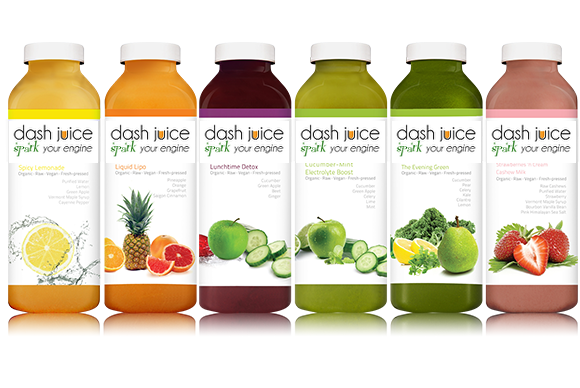
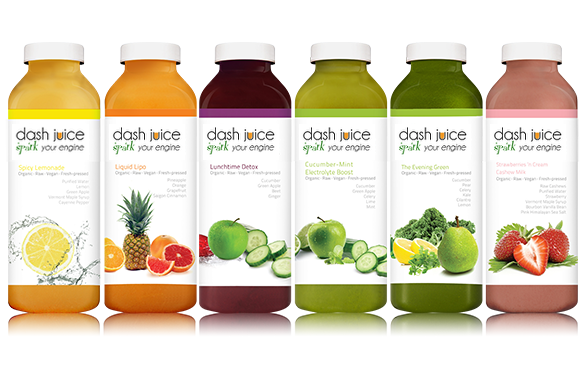
Updated images while refactoring CSS

Changed region(s): [[0.0, 0.3093, 0.6517, 0.4021], [0.6828, 0.3093, 0.9931, 0.4021]]

diff --git a/public/css/application.css b/public/css/application.css
@@ -5,7 +5,8 @@ body {
 #header_container,
 #nav_container,
 #content_container,
-#footer_container {
+#footer_container,
+#contact_container{
     margin: auto;
     width: 960px;
 }
@@ -92,10 +93,24 @@ th, td {
     border: solid black 1px;
 }
 
-/* ----- =columns ----- */
-.top_columns {
-
+.mid_p_color_change {
+    color: #EE845C;
 }
+
+.mid_p_font_larger {
+    font-size: 52px;
+}
+
+.citysearch {
+    color: #9B9CA0;
+}
+
+.index_text_under_pix {
+    color: #78787A;
+    font-size: 14px;
+}
+
+/* ----- =columns ----- */
 
 .one_third {
     width: 300px;
@@ -136,6 +151,15 @@ th, td {
 }
 
 /* ----- =menu (Primary Nav) ----- */
+
+.nav_titles {
+    color: #A1C815;
+    font-size: 24px;
+}
+
+.nav_body {
+    color: #78787A;
+}
 
 #menu {
     float: right; /* or float: left */

diff --git a/spec/features/application_spec.rb b/spec/features/application_spec.rb
@@ -75,7 +75,7 @@ feature 'User Registration and Login' do
     expect(page).to have_content "Chief Juicing Officer"
 
     visit('/learn')
-    expect(page).to have_content "Why Cleanse?"
+    expect(page).to have_content "Why Cleanse with Dash Juice?"
 
     visit('/juices')
     expect(page).to have_content "Spicy Lemonade"
